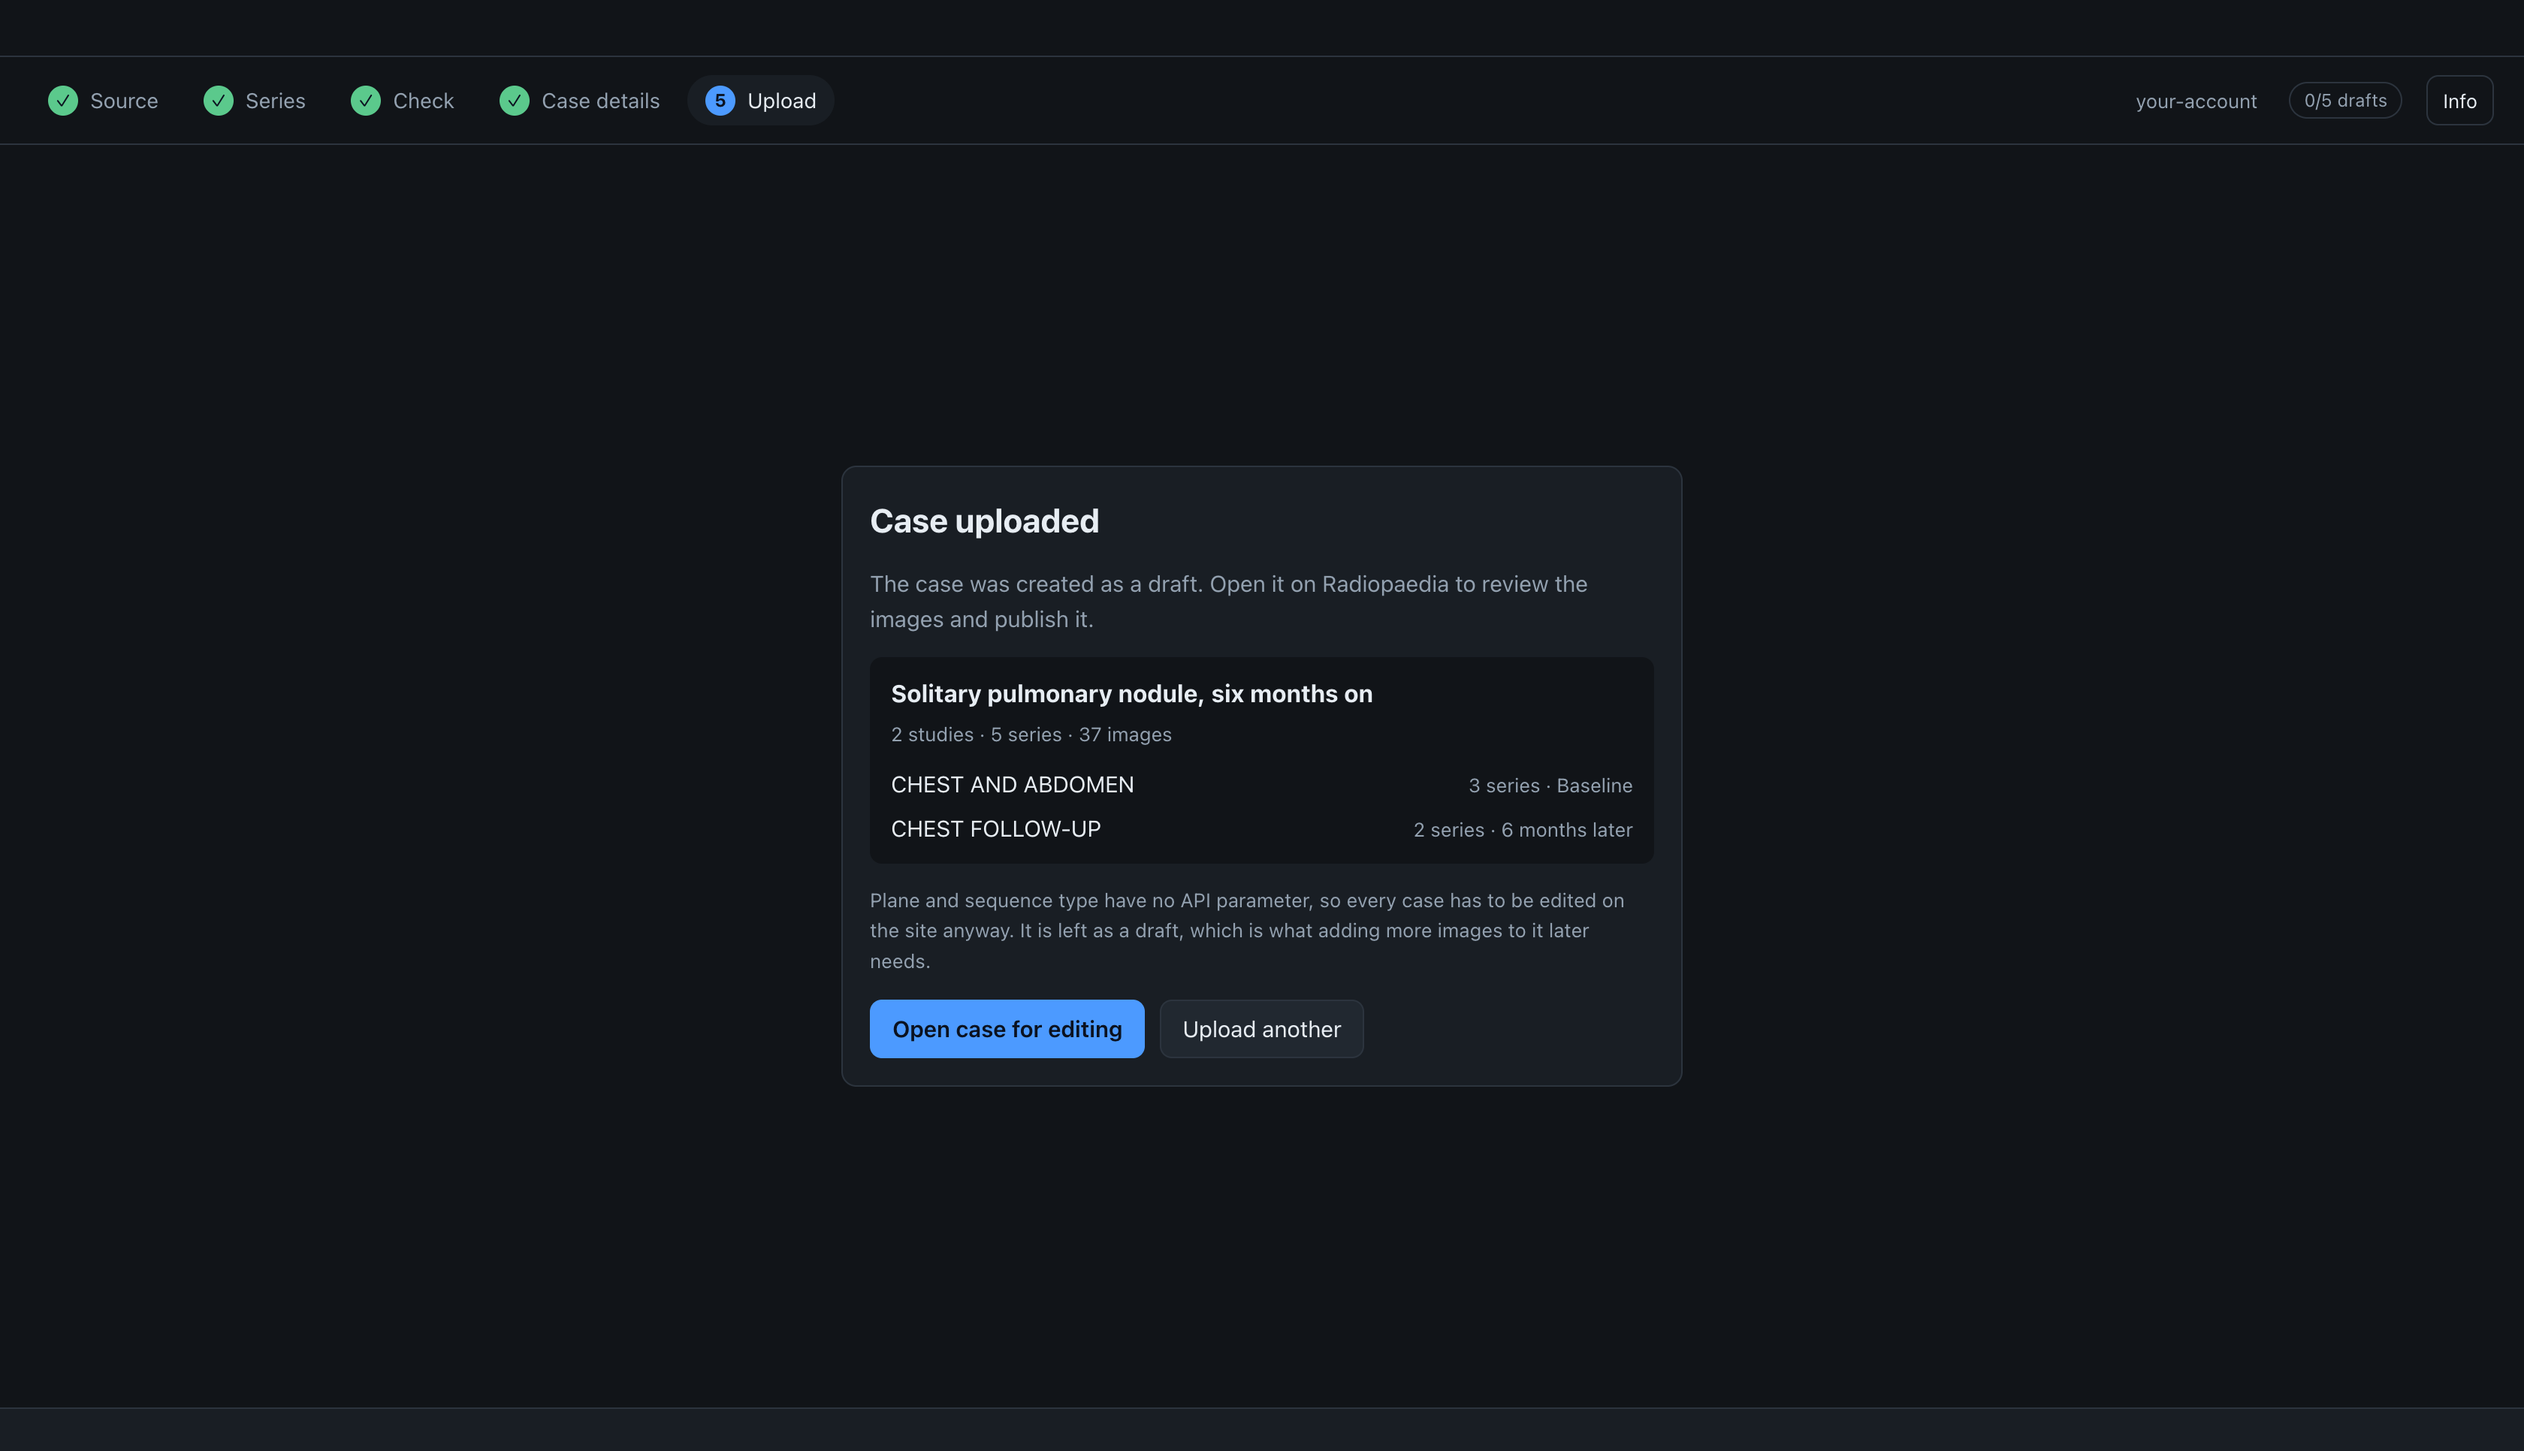
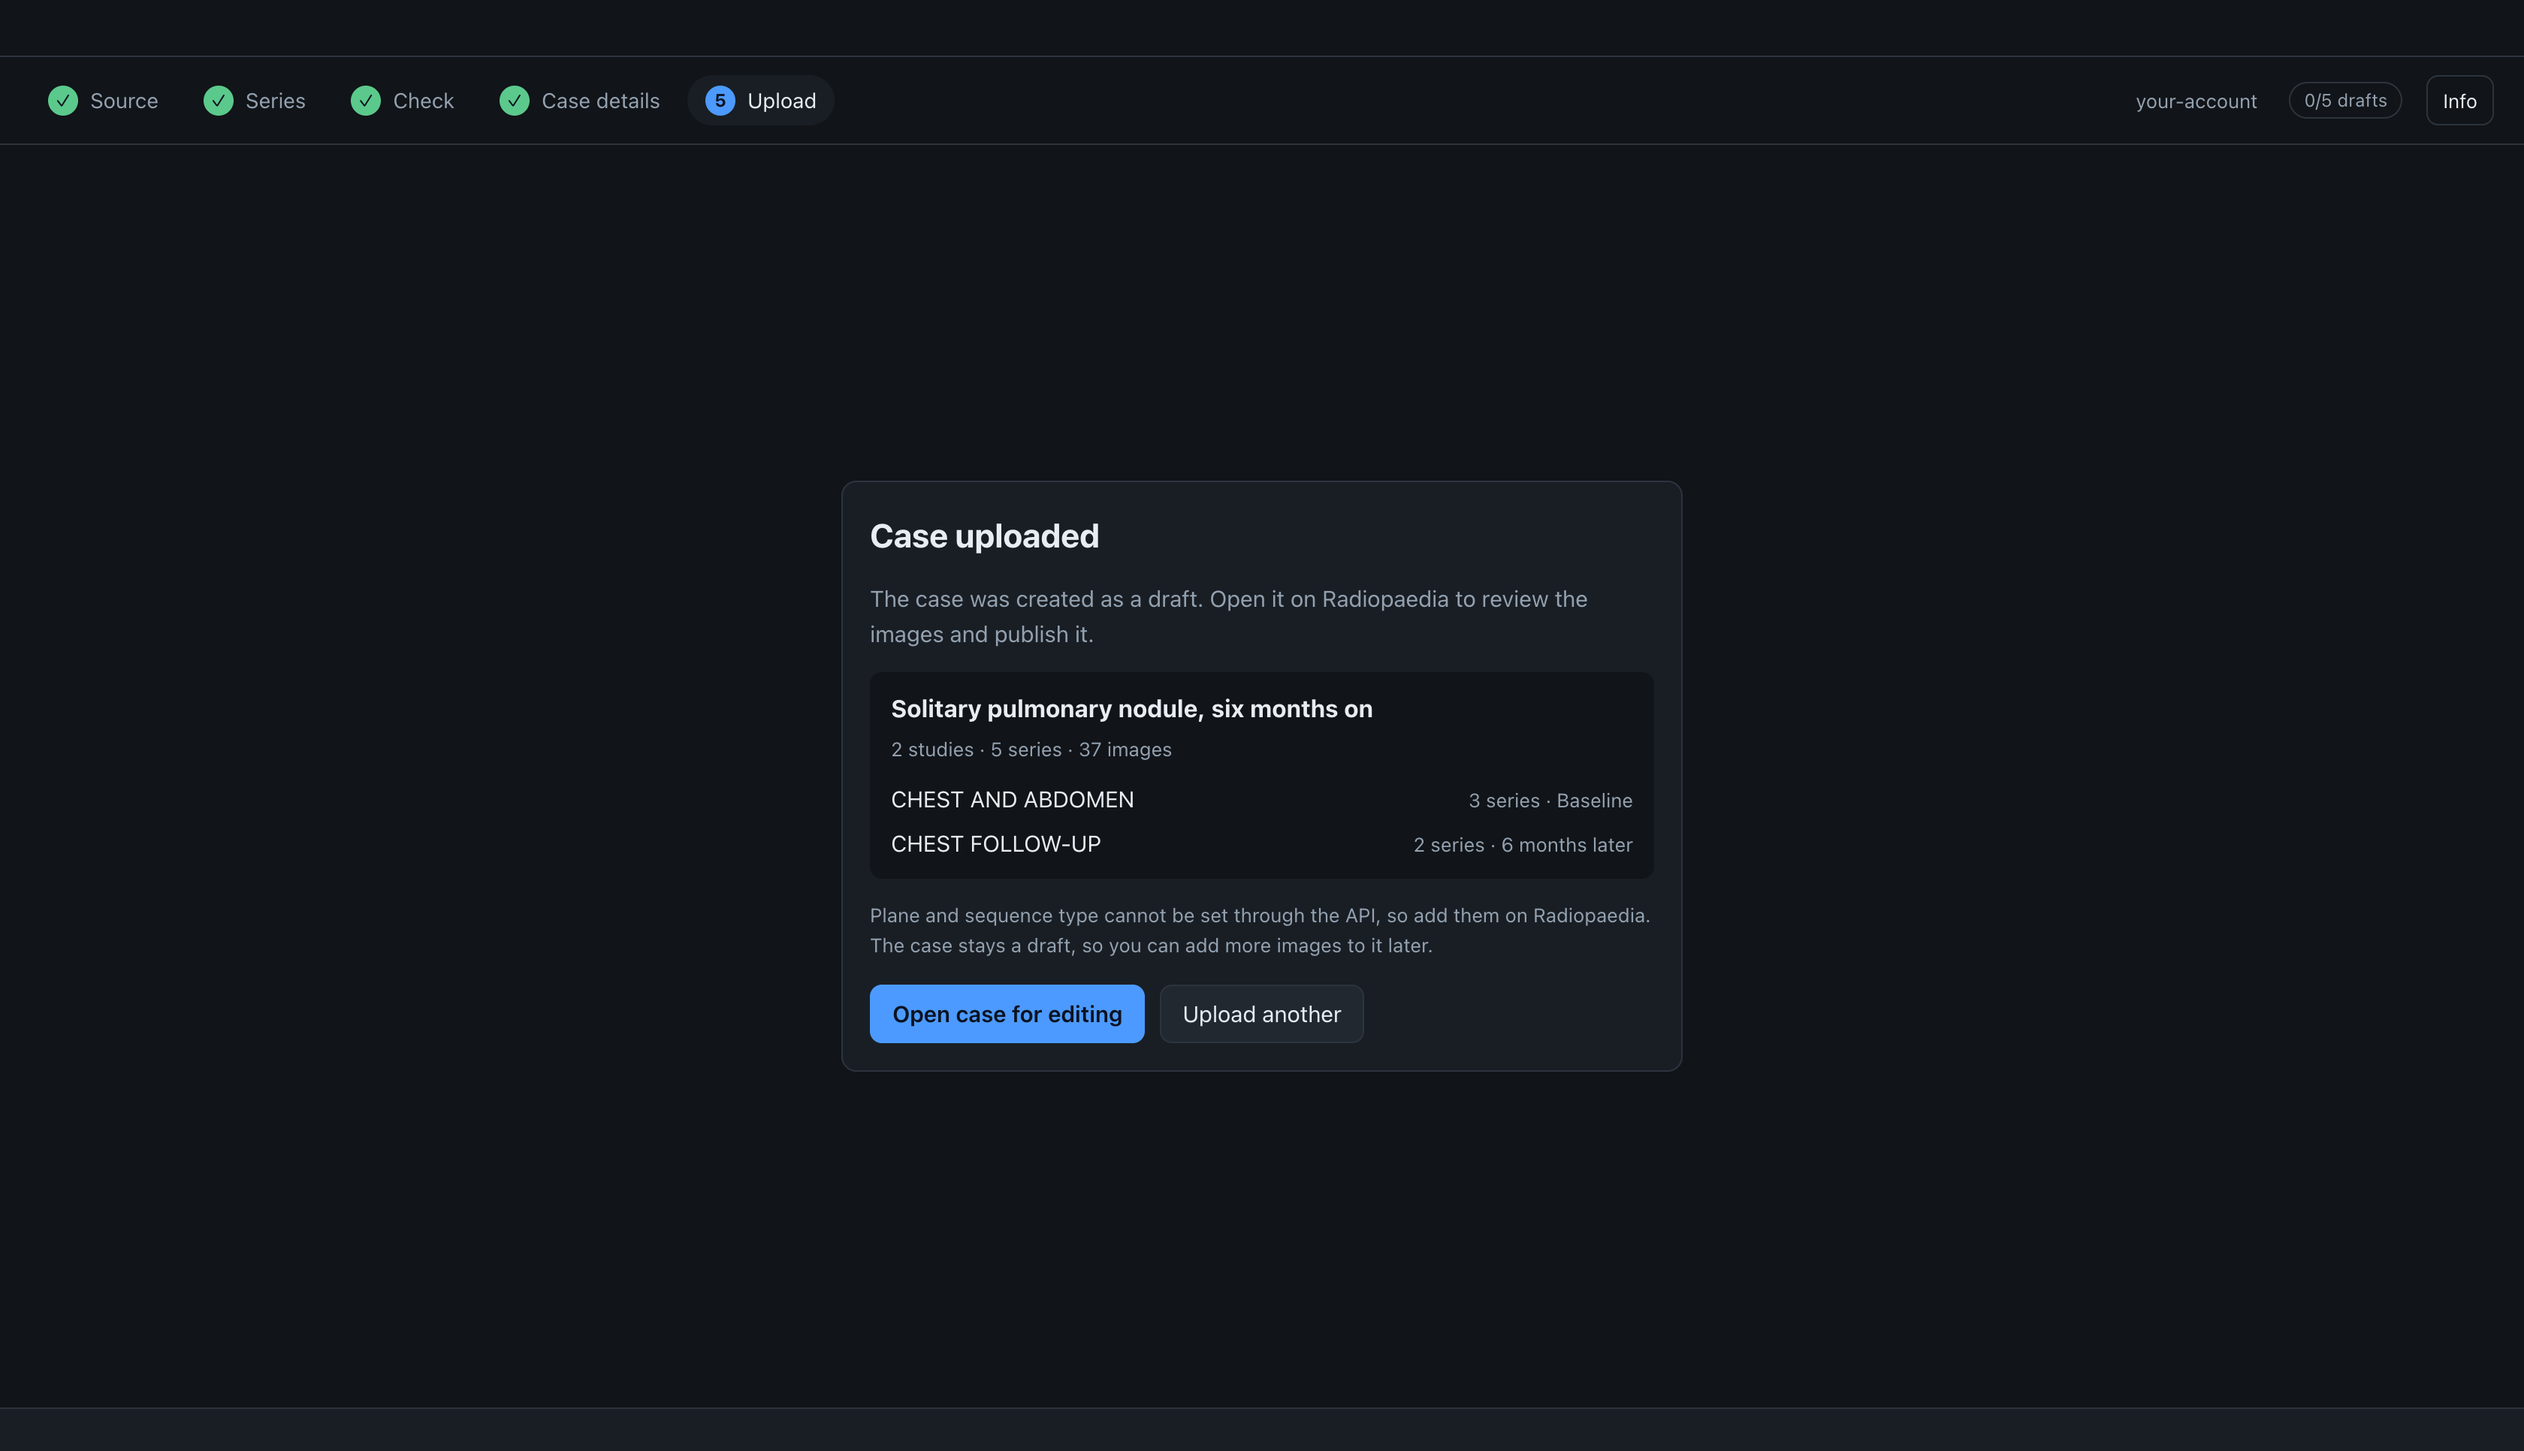
Rewrite the case step, the done screen and the error messages in plain language
The case form, the confirmation and the errors shown in the footer lose
their dashes and contractions, and read as one point per sentence.

Each study carried a "position 2", "position 3" label. It is the number the
API is sent, which starts at two, and the first study reading "position 2"
explained nothing that the order of the list does not already show.

Changed region(s): [[0.3438, 0.3416, 0.625, 0.5901], [0.3438, 0.6211, 0.6562, 0.7453], [0.5625, 0.528, 0.6562, 0.5901]]

diff --git a/src/renderer/src/components/CaseStep.tsx b/src/renderer/src/components/CaseStep.tsx
@@ -81,13 +81,13 @@ export function CaseStep({
         <div className="card">
           <h2>Anonymisation warnings</h2>
           <p className="muted small" style={{ marginTop: 4 }}>
-            These fields were kept because they carry imaging parameters, but they are free text and could contain
-            personal data.
+            These fields were kept because they describe the images. They are free text and can contain personal data
+            such as names, so read them before uploading.
           </p>
           <ul className="small muted" style={{ margin: 0, paddingLeft: 18 }}>
             {warnings.slice(0, 8).map((w) => (
               <li key={w.tag}>
-                <code>{w.tag}</code> — {w.text} <span style={{ opacity: 0.6 }}>({w.count} images)</span>
+                <code>{w.tag}</code>: {w.text} <span style={{ opacity: 0.6 }}>({w.count} images)</span>
               </li>
             ))}
           </ul>
@@ -156,12 +156,12 @@ export function CaseStep({
                 ? 'Reading your draft cases…'
                 : drafts.length === 0
                   ? 'This account has no draft cases to add to.'
-                  : `The studies below are added to ${joined?.title ?? 'this case'} as new studies. Its title, age and the rest stay as they are — the API cannot change them, so edit those on Radiopaedia.`}
+                  : `The studies below are added to ${joined?.title ?? 'this case'} as new studies. Its title, age and other details stay unchanged, because the API cannot change them. Edit them on Radiopaedia if needed.`}
             </p>
           </>
         ) : (
           <p className="muted small" style={{ margin: 0 }}>
-            A new draft case is created from the details below, and counts against your draft quota.
+            A new draft case is created from the details below, and counts towards your draft quota.
           </p>
         )}
       </div>
@@ -230,8 +230,8 @@ export function CaseStep({
         </div>
         {(studies[0]?.patientAge !== null || studies[0]?.patientSex !== null) && (
           <p className="muted small" style={{ margin: '-6px 0 0' }}>
-            Age and sex were read from the original files, before anonymisation removed them. The age is the nearest
-            value on Radiopaedia's list to the one the files gave.
+            Age and gender were read from the original files before anonymisation. The age is rounded to the nearest
+            value in Radiopaedia's list.
           </p>
         )}
 
@@ -247,9 +247,8 @@ export function CaseStep({
 
         {studies.length > 1 && (
           <p className="muted small" style={{ margin: 0 }}>
-            The study endpoint takes no date, and the real dates are removed during anonymisation anyway. The interval
-            between studies goes in each caption instead, pre-filled from the originals — edit it if you prefer
-            different wording.
+            Study dates are not uploaded: the API has no date field, and anonymisation removes the dates. Each caption
+            is filled in with the interval since the first study, read from the original files. You can edit it.
           </p>
         )}
 
@@ -271,7 +270,6 @@ export function CaseStep({
               <div style={{ display: 'flex', alignItems: 'baseline', gap: 10 }}>
                 <h3>{study.studyDescription ?? `Study ${i + 1}`}</h3>
                 <span className="badge">{describeInterval(study.intervalDays, i === 0)}</span>
-                <span className="muted small">position {i + 2}</span>
               </div>
 
               <div className="row2">

diff --git a/src/renderer/src/errorText.ts b/src/renderer/src/errorText.ts
@@ -54,9 +54,9 @@ export function describeError(value: unknown): ShownError {
 
   if (/credentials are not configured/i.test(message)) {
     return {
-      title: "Radiopaedia credentials aren't set yet",
+      title: 'Radiopaedia credentials are not set',
       detail:
-        'The application ID and secret live in your account panel. Nothing can be read from the site, or sent to it, until they are there.',
+        'Enter the application ID and secret in the account panel. The app cannot read from Radiopaedia or send anything to it until they are set.',
       fix: 'credentials'
     }
   }
@@ -77,8 +77,8 @@ export function describeError(value: unknown): ShownError {
     return {
       title: 'The upload stopped partway',
       detail:
-        `${stopped[1]} — what had gone up is on Radiopaedia as a draft. ` +
-        'Press Upload to Radiopaedia again to carry on in that case rather than start another.',
+        `${stopped[1].replace(/\.$/, '')}. The images uploaded so far are on Radiopaedia in a draft case. ` +
+        'Click Upload to Radiopaedia again to continue in that case.',
       fix: null
     }
   }
@@ -87,7 +87,7 @@ export function describeError(value: unknown): ShownError {
   // the codes are what a proxy or a dropped connection leaves in the message.
   if (/fetch failed|ENOTFOUND|ECONNREFUSED|ETIMEDOUT|EAI_AGAIN|network/i.test(message)) {
     return {
-      title: "Couldn't reach radiopaedia.org",
+      title: 'Could not reach radiopaedia.org',
       detail: 'Check the connection and try again.',
       fix: null
     }

diff --git a/src/renderer/src/App.tsx b/src/renderer/src/App.tsx
@@ -390,7 +390,7 @@ export function App(): React.JSX.Element {
         setError(
           stated(
             `${res.errors.length} file${res.errors.length === 1 ? '' : 's'} could not be anonymised`,
-            'Those files are not uploaded. The rest of the selection went through.'
+            'Those files will not be uploaded. The other files were anonymised.'
           )
         )
       }
@@ -709,8 +709,8 @@ export function App(): React.JSX.Element {
             </div>
 
             <p className="muted small prose">
-              Plane and sequence type have no API parameter, so every case has to be edited on the site anyway. It
-              is left as a draft, which is what adding more images to it later needs.
+              Plane and sequence type cannot be set through the API, so add them on Radiopaedia. The case stays a
+              draft, so you can add more images to it later.
             </p>
 
             <div className="done-actions">
@@ -826,7 +826,7 @@ export function App(): React.JSX.Element {
             <div className="small muted" style={{ marginBottom: 4 }}>
               {progress.phase}
               {progress.total > 0 ? ` ${progress.done}/${progress.total}` : ''}
-              {progress.detail ? ` — ${progress.detail}` : ''}
+              {progress.detail ? ` · ${progress.detail}` : ''}
             </div>
             <div className="progress">
               <div style={{ width: `${fraction * 100}%` }} />

diff --git a/src/renderer/src/errorText.test.ts b/src/renderer/src/errorText.test.ts
@@ -24,7 +24,7 @@ describe('describeError', () => {
         "Error invoking remote method 'api:draftCases': Error: Radiopaedia application credentials are not configured yet"
       )
     )
-    expect(shown.title).toBe("Radiopaedia credentials aren't set yet")
+    expect(shown.title).toBe('Radiopaedia credentials are not set')
     expect(shown.fix).toBe('credentials')
     // The channel is this codebase's business, not the reader's.
     expect(JSON.stringify(shown)).not.toContain('api:draftCases')
@@ -37,7 +37,7 @@ describe('describeError', () => {
 
   it('says the site could not be reached, without guessing what got through', () => {
     const shown = describeError(new Error('fetch failed'))
-    expect(shown.title).toBe("Couldn't reach radiopaedia.org")
+    expect(shown.title).toBe('Could not reach radiopaedia.org')
     expect(shown.fix).toBeNull()
   })
 
@@ -47,7 +47,7 @@ describe('describeError', () => {
     )
     expect(shown.title).toBe('The upload stopped partway')
     expect(shown.detail).toContain('fetch failed')
-    expect(shown.detail).toContain('carry on in that case')
+    expect(shown.detail).toContain('continue in that case')
   })
 
   it('shows an unrecognised message as it was thrown', () => {

diff --git a/docs/guide/install.md b/docs/guide/install.md
@@ -120,7 +120,7 @@ After you sign in, the header shows your username and how many of your draft cas
 use. When the draft quota is full, you can still import a study and add it to a draft you
 already have, but you cannot create a new case.
 
-If the app shows **Radiopaedia credentials aren't set yet**, click **Enter credentials** to
+If the app shows **Radiopaedia credentials are not set**, click **Enter credentials** to
 open the sign-in panel. To sign out, click your account name in the header, then **Sign out**.
 
 ## Using the app on another computer
